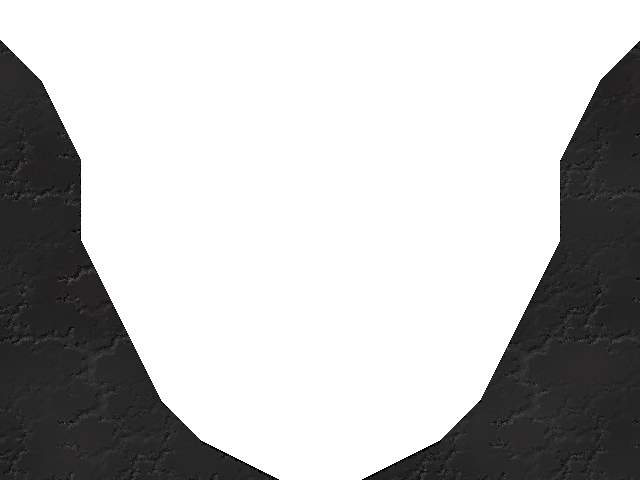
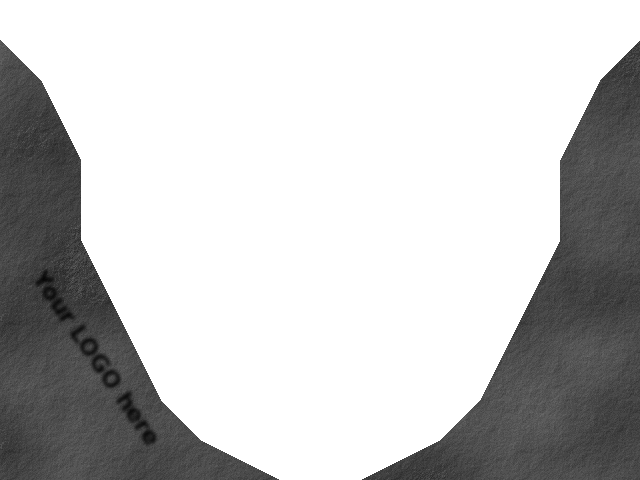
Rotated skateboard

Changed region(s): [[0.0, 0.0938, 0.4375, 1.0], [0.5625, 0.0938, 1.0, 1.0]]

diff --git a/experiments/box2d/experiment5/js/box2d-world.js b/experiments/box2d/experiment5/js/box2d-world.js
@@ -46,8 +46,6 @@ function World(ctx) {
 	this.world = new Box2D.Dynamics.b2World(
 			new Box2D.Common.Math.b2Vec2(0, 10), true);
 	this.ctx = ctx;
-	this.backwheel;
-	this.frontwheel;
 	this.board;
 }
 
@@ -203,6 +201,7 @@ World.prototype = {
 	initBodies : function() {
 		var bodyDef = new Box2D.Dynamics.b2BodyDef();
 		var fixDef = new Box2D.Dynamics.b2FixtureDef();
+		Actors.clear() ;
 		
 		fixDef.density = 1.0;
 		fixDef.friction = 0.9;
@@ -213,17 +212,19 @@ World.prototype = {
 		bodyDef.type = Box2D.Dynamics.b2Body.b2_dynamicBody;
 		bodyDef.position.x = wheelRadius;
 		bodyDef.position.y = wheelRadius;
-		this.backwheel = this.world.CreateBody(bodyDef);
-		this.backwheel.CreateFixture(fixDef);
-		this.bodies.push(this.backwheel) ;
+		var backwheel = this.world.CreateBody(bodyDef);
+		backwheel.CreateFixture(fixDef);
+		this.bodies.push(backwheel) ;
+		Actors.addActor(new Wheel(this.ctx, backwheel, wheelRadius)) ;
 
 		// Front wheel
 		bodyDef.type = Box2D.Dynamics.b2Body.b2_dynamicBody;
 		bodyDef.position.x = boardLength-wheelRadius;
 		bodyDef.position.y = wheelRadius;
-		this.frontwheel = this.world.CreateBody(bodyDef);
-		this.frontwheel.CreateFixture(fixDef);
-		this.bodies.push(this.frontwheel) ;
+		var frontwheel = this.world.CreateBody(bodyDef);
+		frontwheel.CreateFixture(fixDef);
+		this.bodies.push(frontwheel) ;
+		Actors.addActor(new Wheel(this.ctx, frontwheel, wheelRadius)) ;
 		
 		// Deck
 		fixDef.shape = new Box2D.Collision.Shapes.b2PolygonShape();
@@ -231,64 +232,38 @@ World.prototype = {
 		bodyDef.type = Box2D.Dynamics.b2Body.b2_dynamicBody;
 		bodyDef.position.x = boardLength / 2;
 		bodyDef.position.y = boardThickness / 2;
-		this.board = this.world.CreateBody(bodyDef);
-		this.board.CreateFixture(fixDef);
+		var board = this.world.CreateBody(bodyDef);
+		board.CreateFixture(fixDef);
 		this.bodies.push(this.board) ;
+		var boardRenderer = new Board(this.ctx, board, boardLength, boardThickness) ;
+		Actors.addActor(new Rotated(this.ctx, board, boardRenderer)) ;
 
 		// Trucks		
 		var b2JointDef = new Box2D.Dynamics.Joints.b2RevoluteJointDef();
-		b2JointDef.bodyA = this.backwheel;
-		b2JointDef.bodyB = this.board;
+		b2JointDef.bodyA = backwheel;
+		b2JointDef.bodyB = board;
 		b2JointDef.localAnchorA = new Box2D.Common.Math.b2Vec2(0, 0);
 		b2JointDef.localAnchorB = new Box2D.Common.Math.b2Vec2(-boardLength/2 + truckOffset, wheelRadius);
 		var joint = this.world.CreateJoint(b2JointDef);
 		this.joints.push(joint);
 		
-		b2JointDef.bodyA = this.frontwheel;
-		b2JointDef.bodyB = this.board;
+		b2JointDef.bodyA = frontwheel;
+		b2JointDef.bodyB = board;
 		b2JointDef.localAnchorA = new Box2D.Common.Math.b2Vec2(0, 0);
 		b2JointDef.localAnchorB = new Box2D.Common.Math.b2Vec2(boardLength/2 - truckOffset, wheelRadius);
 		joint = this.world.CreateJoint(b2JointDef);
 		this.joints.push(joint);
 		
-		this.board.SetPosition(new Box2D.Common.Math.b2Vec2(0.8, 1.5));
-	},
-	drawBoard : function() {
-		this.ctx.fillStyle = "#ff0000";
-		var worldPosition = this.frontwheel.GetPosition() ;
-		var x = Math.round(worldPosition.x * pixelsPerMeter) ;
-		var y = Math.round(worldPosition.y * pixelsPerMeter) ;
-		this.ctx.beginPath();
-		this.ctx.arc(x, y, wheelRadiusInPixels, 0, Math.PI * 2, false);
-		this.ctx.closePath();
-		this.ctx.fill();
-		
-		worldPosition = this.backwheel.GetPosition() ;
-		x = Math.round(worldPosition.x * pixelsPerMeter) ;
-		y = Math.round(worldPosition.y * pixelsPerMeter) ;
-		this.ctx.beginPath();
-		this.ctx.arc(x, y, wheelRadiusInPixels, 0, Math.PI * 2, false);
-		this.ctx.closePath();
-		this.ctx.fill();
-		
-		worldPosition = this.board.GetPosition() ;
-		x = Math.round(worldPosition.x * pixelsPerMeter) ;
-		y = Math.round(worldPosition.y * pixelsPerMeter) ;
-		this.ctx.fillStyle = "#0000ff";
-		this.ctx.fillRect(
-			x-halfBoardLengthInPixels,
-			y-halfBoardThicknessInPixels,
-			halfBoardLengthInPixels*2,
-			halfBoardThicknessInPixels*2);
+		board.SetPosition(new Box2D.Common.Math.b2Vec2(0.8, 1.5));
 	},
 	update : function() {
 		this.world.Step(1 / 30 // frame-rate
 		, 10 // velocity iterations
 		, 10 // position iterations
 		);
-		this.world.DrawDebugData();
-		//this.ctx.clearRect(0, 0, 640, 480);
-		//this.drawBoard();
+		//this.world.DrawDebugData();
+		this.ctx.clearRect(0, 0, 640, 480);
+		Actors.step(0) ;
 		this.world.ClearForces();
 	}
 };

diff --git a/experiments/box2d/experiment5/js/actor.js b/experiments/box2d/experiment5/js/actor.js
@@ -1,0 +1,98 @@
+var Actors = (function() {
+		var self = {} ;
+		var actors = new Array() ;
+		
+		self.step = function(timeSinceLastFrame) {
+			for (var n=0; n<actors.length; n++) {
+				actors[n].step(timeSinceLastFrame) ;
+			}
+		};
+		
+		self.addActor = function(actor) {
+			if (actor) {
+				actors.push(actor) ;
+			}
+		};
+		
+		self.removeActor = function(actor) {
+			actors = actors.filter(function(curValue, curIndex, curArray) 
+				{ return (element != actor) ; }
+			);
+		};
+		
+		self.clear = function() {
+			actors = new Array() ;
+		};
+		
+		return self ;
+}()) ;
+
+var MathUtil = (function() {
+		var self = {} ;
+		
+		self.worldToScreen = function(wp) {
+			var sp = {} ;
+			sp.x = Math.round(wp.x * 40) ;
+			sp.y = Math.round(wp.y * 40) ;
+			return sp ;
+		}
+		
+		self.worldLengthToScreen = function(length) {
+			return Math.max(1, Math.round(length * 40)) ;
+		}
+		
+		return self ;
+}());
+
+function Wheel(ctx, body, radius) {
+	this.ctx = ctx ;
+	this.body = body ;
+	this.radius = radius ;
+}
+
+Wheel.prototype.step = function(timeSinceLastFrame) {
+	var worldPosition = this.body.GetPosition() ;
+	var screenPosition = MathUtil.worldToScreen(worldPosition) ;
+	
+		this.ctx.fillStyle = "#ff0000";
+		this.ctx.beginPath();
+		this.ctx.arc(
+			screenPosition.x, 
+			screenPosition.y, 
+			MathUtil.worldLengthToScreen(this.radius), 
+			0, 
+			Math.PI * 2, 
+			false);
+		this.ctx.closePath();
+		this.ctx.fill();
+};
+
+
+function Rotated(ctx, body, delegate) {
+	this.body = body ;
+	this.delegate = delegate;
+	this.ctx = ctx ;
+}
+
+Rotated.prototype.step = function(timeSinceLastFrame) {
+	var worldPosition = this.body.GetPosition() ;
+	var screenPosition = MathUtil.worldToScreen(worldPosition) ;
+	this.ctx.save();
+	this.ctx.translate(screenPosition.x, screenPosition.y);
+	this.ctx.rotate(this.body.GetAngle());
+	this.delegate.render(timeSinceLastFrame) ;	
+	this.ctx.restore() ;
+};
+
+function Board(ctx, body, length, thickness) {
+	this.body = body ;
+	this.ctx = ctx ;
+	this.lengthPxls = MathUtil.worldLengthToScreen(length) ;
+	this.thicknessPxls = MathUtil.worldLengthToScreen(thickness) ;
+}
+
+Board.prototype.render = function()  {
+	this.ctx.fillStyle = "#00ff00";
+	this.ctx.fillRect(-this.lengthPxls/2, -this.thicknessPxls/2,
+			this.lengthPxls, this.thicknessPxls);
+}

diff --git a/experiments/box2d/experiment5/index.html b/experiments/box2d/experiment5/index.html
@@ -25,6 +25,7 @@ div.box2d-canvas-container {
 </style>
 
 <script type="text/javascript" src="../lib/Box2dWeb-2.1a.2.js"></script>
+<script type="text/javascript" src="js/actor.js"></script>
 <script type="text/javascript" src="js/box2d-world.js"></script>
 </head>
 <body>
